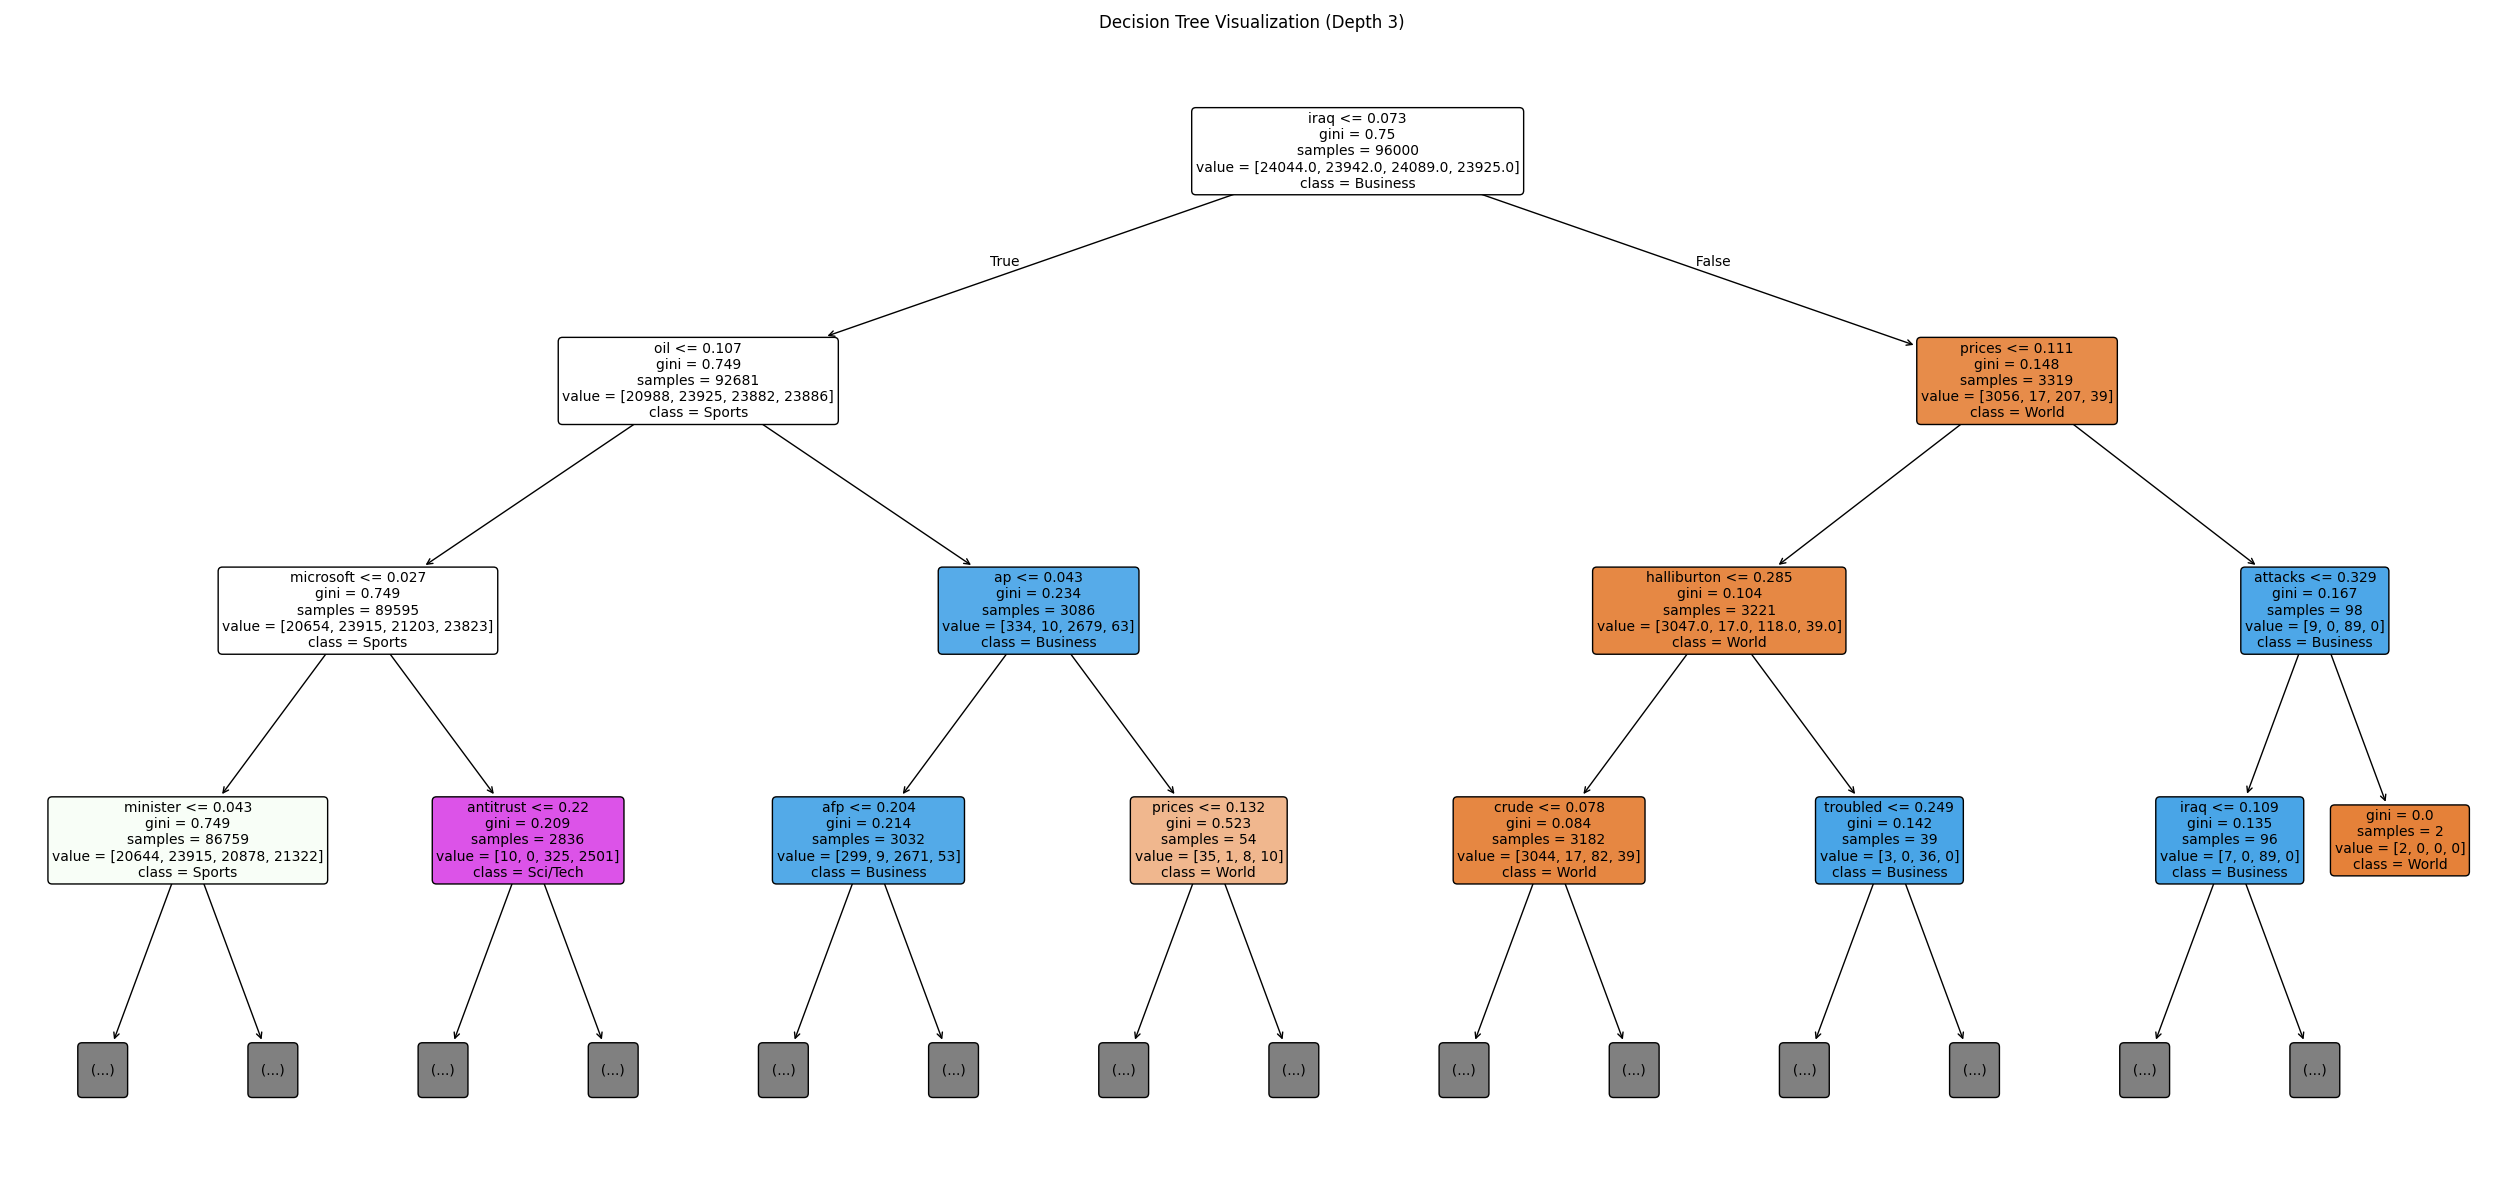
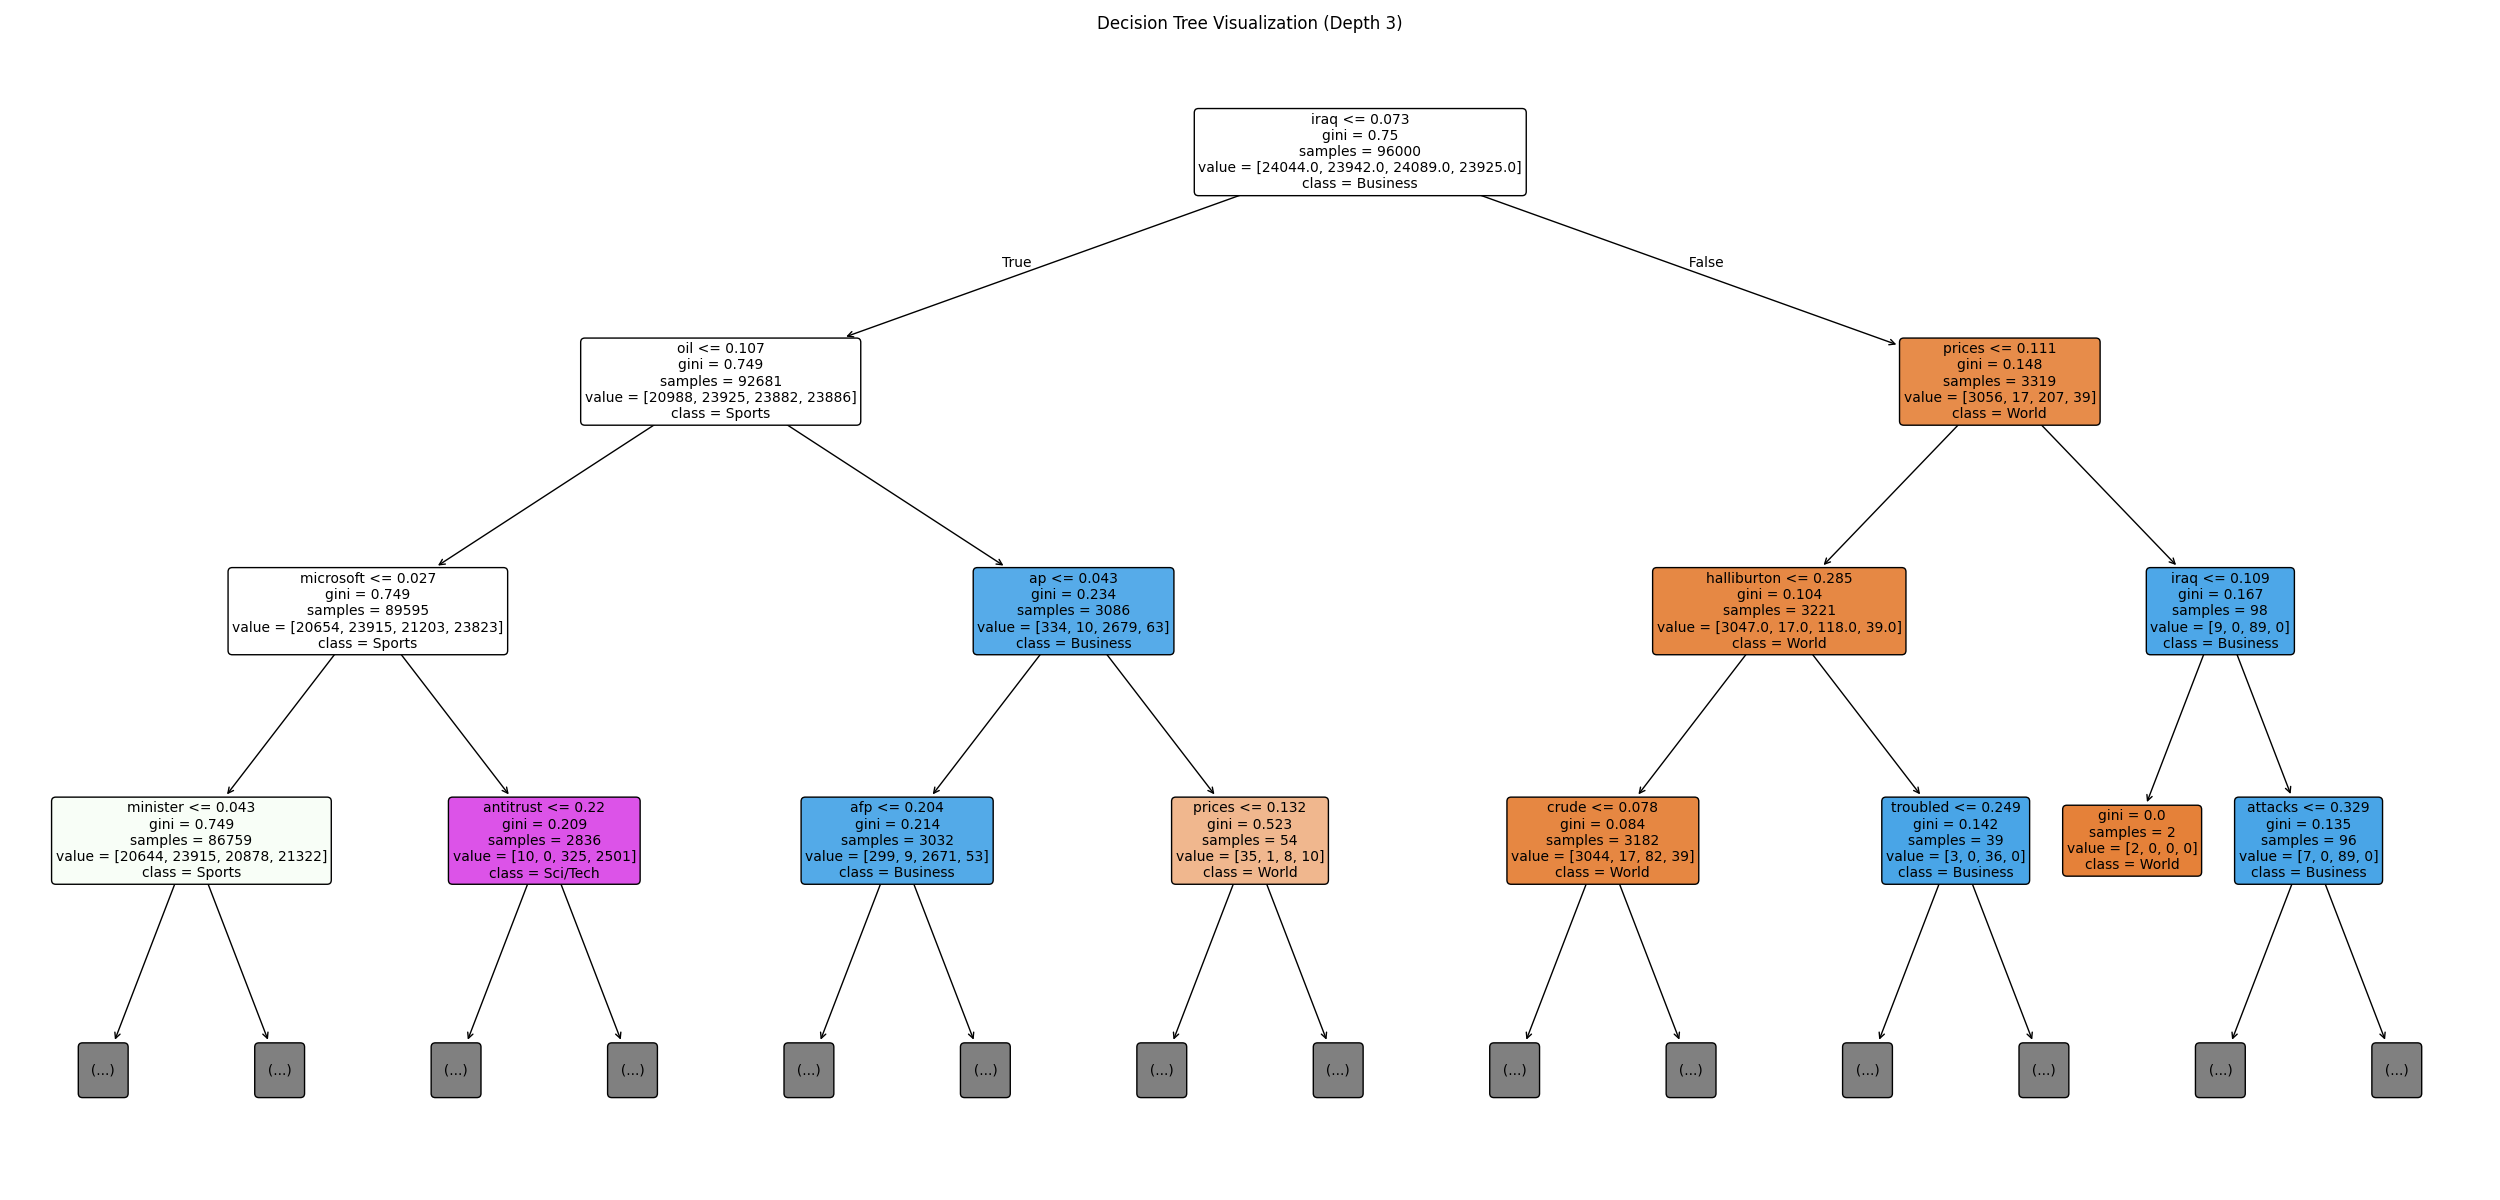
Remove playground code and add README
- Remove unused playground CSS, state variables, and predict handler from frontend
- Clean up unused icon imports (CircleDot, Zap)
- Add project README with setup instructions and team info

diff --git a/frontend/src/App.css b/frontend/src/App.css
@@ -435,110 +435,6 @@
     border-radius: 8px;
 }
 
-/* Playground */
-.example-chips {
-    display: flex;
-    flex-wrap: wrap;
-    gap: 0.75rem;
-    margin: 1.5rem 0;
-}
-
-.chip {
-    background: rgba(255, 255, 255, 0.05);
-    border: 1px solid var(--glass-border);
-    padding: 0.5rem 1rem;
-    border-radius: 100px;
-    color: var(--text-muted);
-    font-size: 0.85rem;
-    transition: all 0.3s;
-}
-
-.chip:hover {
-    background: rgba(255, 255, 255, 0.1);
-    color: var(--text-main);
-    border-color: var(--primary);
-    transform: translateY(-2px);
-}
-
-.input-group {
-    margin-top: 1.5rem;
-    display: flex;
-    flex-direction: column;
-    gap: 1rem;
-}
-
-textarea {
-    background: rgba(15, 23, 42, 0.5);
-    border: 1px solid var(--glass-border);
-    border-radius: 16px;
-    padding: 1.5rem;
-    color: white;
-    font-family: var(--font-main);
-    font-size: 1.1rem;
-    resize: none;
-    height: 120px;
-    outline: none;
-    transition: border-color 0.3s;
-}
-
-textarea:focus {
-    border-color: var(--primary);
-}
-
-.predict-btn {
-    background: var(--text-main);
-    color: var(--bg-dark);
-    padding: 1rem 2rem;
-    border-radius: 12px;
-    font-weight: 600;
-    display: flex;
-    align-items: center;
-    justify-content: center;
-    gap: 0.5rem;
-}
-
-.predict-btn:disabled {
-    opacity: 0.5;
-    cursor: not-allowed;
-}
-
-.prediction-results {
-    margin-top: 2rem;
-    display: flex;
-    gap: 2rem;
-}
-
-.prediction-item {
-    display: flex;
-    flex-direction: column;
-    gap: 0.5rem;
-}
-
-.prediction-item label {
-    font-size: 0.85rem;
-    color: var(--text-muted);
-}
-
-.badge {
-    padding: 0.5rem 1rem;
-    border-radius: 8px;
-    font-weight: 600;
-    font-size: 0.9rem;
-    text-align: center;
-}
-
-.badge.purple {
-    background: rgba(168, 85, 247, 0.2);
-    color: #c084fc;
-    border: 1px solid rgba(168, 85, 247, 0.3);
-}
-
-.badge.rose {
-    background: rgba(244, 63, 94, 0.2);
-    color: #fb7185;
-    border: 1px solid rgba(244, 63, 94, 0.3);
-}
-
 /* Footer */
 .footer {
     text-align: center;

diff --git a/frontend/src/App.jsx b/frontend/src/App.jsx
@@ -4,11 +4,9 @@ import {
     Cpu,
     BarChart3,
     Play,
-    CircleDot,
     RefreshCcw,
     ChevronRight,
     ShieldCheck,
-    Zap,
     Activity,
     Trees,
     X
@@ -18,9 +16,6 @@ import './App.css';
 const App = () => {
     const [loading, setLoading] = useState(false);
     const [status, setStatus] = useState({ is_training: false, logs: [], has_results: false, results: null, plot_url: null });
-    const [inputText, setInputText] = useState("");
-    const [prediction, setPrediction] = useState(null);
-    const [predicting, setPredicting] = useState(false);
     const [hasClickedTrain, setHasClickedTrain] = useState(false);
     const [viewerUrl, setViewerUrl] = useState(null);
     const [showAbout, setShowAbout] = useState(false);
@@ -50,25 +45,7 @@ const App = () => {
     const handleTrain = async () => {
         setHasClickedTrain(true);
         setLoading(true);
-        setPrediction(null);
         await fetch('/api/train', { method: 'POST' });
-    };
-
-    const handlePredict = async () => {
-        if (!inputText) return;
-        setPredicting(true);
-        try {
-            const res = await fetch('/api/predict', {
-                method: 'POST',
-                headers: { 'Content-Type': 'application/json' },
-                body: JSON.stringify({ text: inputText })
-            });
-            const data = await res.json();
-            setPrediction(data);
-        } catch (e) {
-            console.error(e);
-        }
-        setPredicting(false);
     };
 
     const ReportTable = ({ report }) => {

diff --git a/backend/api.py b/backend/api.py
@@ -19,8 +19,6 @@ from fastapi.staticfiles import StaticFiles
 import os
 
 app = FastAPI()
-
-# Enable CORS for frontend
 app.add_middleware(
     CORSMiddleware,
     allow_origins=["*"],
@@ -28,9 +26,6 @@ app.add_middleware(
     allow_headers=["*"],
 )
 
-# Serve PDFs from the root directory
-# We can't mount the whole root because of security, so let's serve specific files or a folder.
-# Actually, let's just create a route to return the file.
 from fastapi.responses import FileResponse
 
 @app.get("/files/{file_name}")
@@ -40,7 +35,6 @@ async def get_file(file_name: str):
         return FileResponse(file_path)
     raise HTTPException(status_code=404, detail="File not found")
 
-# Global store for models and results
 state = {
     "is_training": False,
     "logs": [],
@@ -69,16 +63,14 @@ def run_training():
         state["results"] = None
         
         state["logs"].append("Loading dataset...")
-        # 1. Load Dataset
-        dataset = load_dataset("wangrongsheng/ag_news")
-        df = pd.DataFrame(dataset["train"]) # Using full dataset to match main.py
+
+        dataset = load_dataset("wangrongsheng/ag_news") #loading news dataset
+        df = pd.DataFrame(dataset["train"])
         
         state["logs"].append("Preprocessing text...")
-        # Preprocessing
-        df["text"] = df["text"].apply(clean_text)
+        df["text"] = df["text"].apply(clean_text) #cleanng text
         
-        state["logs"].append("Vectorizing text with TF-IDF...")
-        # Vectorization
+        state["logs"].append("Vectorizing text with TF-IDF...") # vectorization
         vectorizer = TfidfVectorizer(stop_words="english", max_features=5000)
         X = vectorizer.fit_transform(df["text"])
         y = df["label"]

diff --git a/README.md b/README.md
@@ -1,0 +1,70 @@
+# NeuroNews AI Dashboard
+
+A web-based AI dashboard for classifying news articles into four categories — **World**, **Sports**, **Business**, and **Sci/Tech** — using the AG News dataset. Built as part of the Artificial Intelligence course (COMP338).
+
+## Overview
+
+The application trains two machine learning models (Logistic Regression and Decision Tree) on the AG News dataset and displays real-time training progress, accuracy metrics, classification reports, and a decision tree visualization — all through an interactive React dashboard.
+
+## Tech Stack
+
+- **Frontend:** React 19, Vite, Framer Motion, Lucide Icons
+- **Backend:** FastAPI, scikit-learn, pandas, matplotlib
+- **Dataset:** [AG News](https://huggingface.co/datasets/wangrongsheng/ag_news) (via HuggingFace Datasets)
+
+## Features
+
+- One-click model training with live terminal-style logs
+- Logistic Regression and Decision Tree classifiers
+- Per-class precision, recall, and F1 scores
+- Decision tree visualization (top 3 levels)
+- PDF document viewer for project description and report
+- Team "About Us" modal
+
+## Project Structure
+
+```
+├── backend/
+│   └── api.py            # FastAPI backend with training & prediction endpoints
+├── frontend/
+│   ├── src/
+│   │   ├── App.jsx       # Main React application
+│   │   └── App.css       # Styles
+│   ├── public/           # Static assets (team photos)
+│   └── vite.config.js    # Vite configuration
+├── main.py               # Standalone training script (CLI)
+└── README.md
+```
+
+## Getting Started
+
+### Prerequisites
+
+- Python 3.9+
+- Node.js 18+
+
+### Backend
+
+```bash
+pip install fastapi uvicorn scikit-learn pandas matplotlib datasets
+cd backend
+uvicorn api:app --reload --port 8000
+```
+
+### Frontend
+
+```bash
+cd frontend
+npm install
+npm run dev
+```
+
+The frontend dev server proxies API requests to the backend on port 8000.
+
+## Team
+
+| Name             | Role                                      |
+| ---------------- | ----------------------------------------- |
+| Tala Kherawish   | Chief AI Research Scientist & Lead Architect |
+| Qais Alqrem      | Machine Learning Engineer                 |
+| Rand Tabakhna    | Neural Data Specialist & Analyst          |
